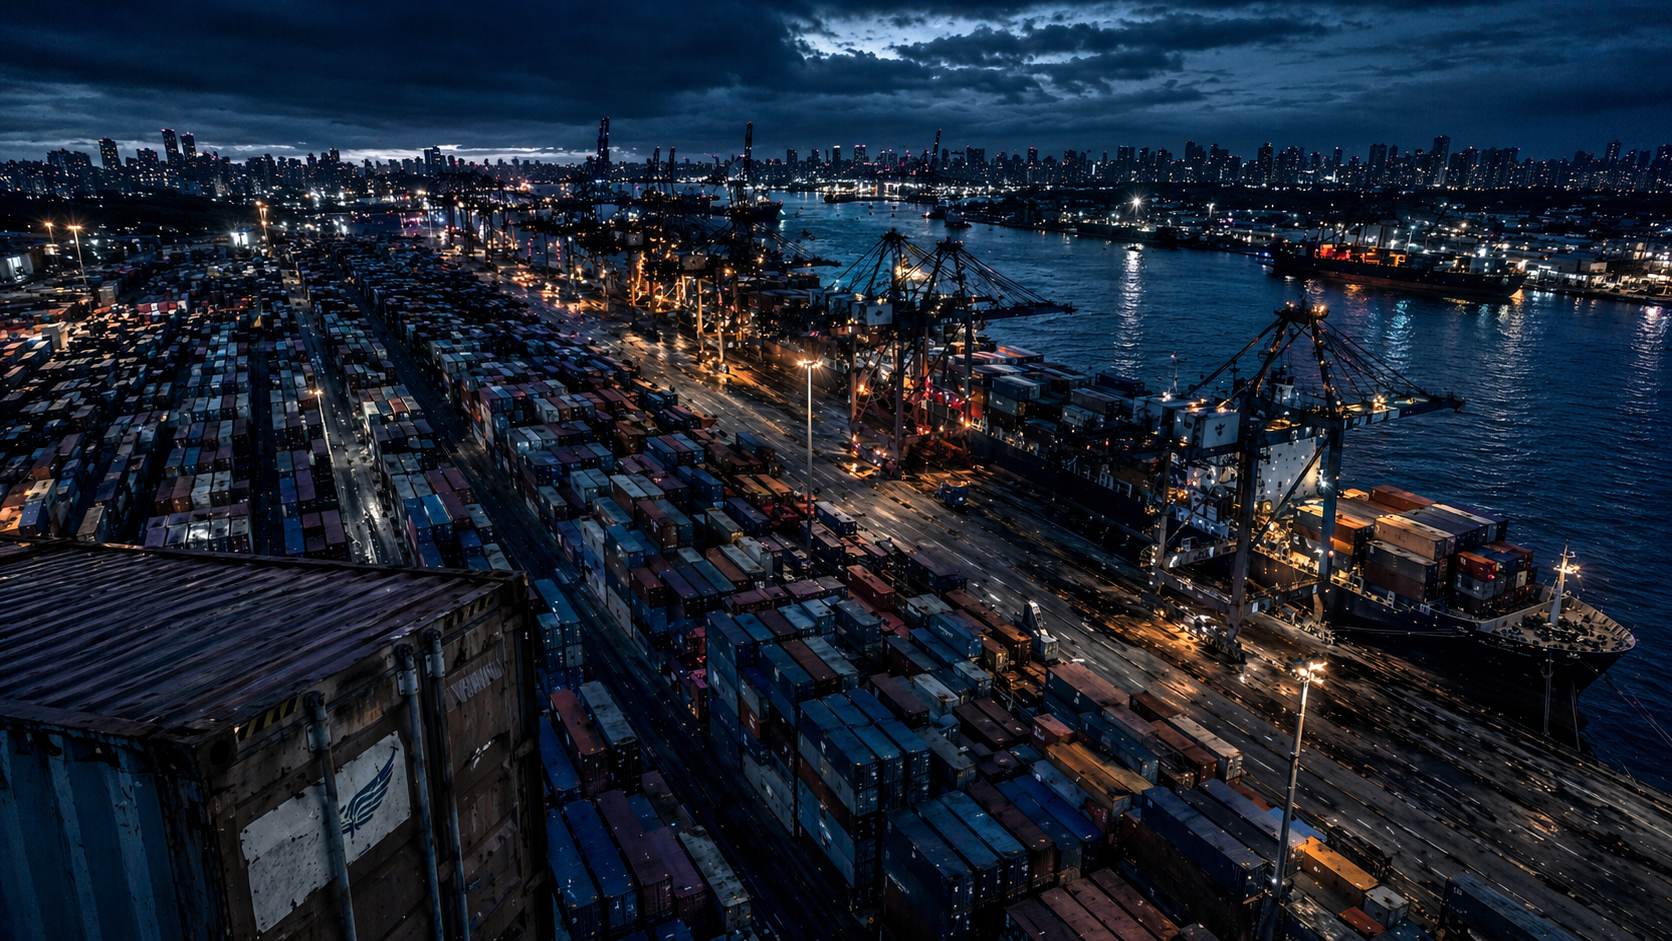
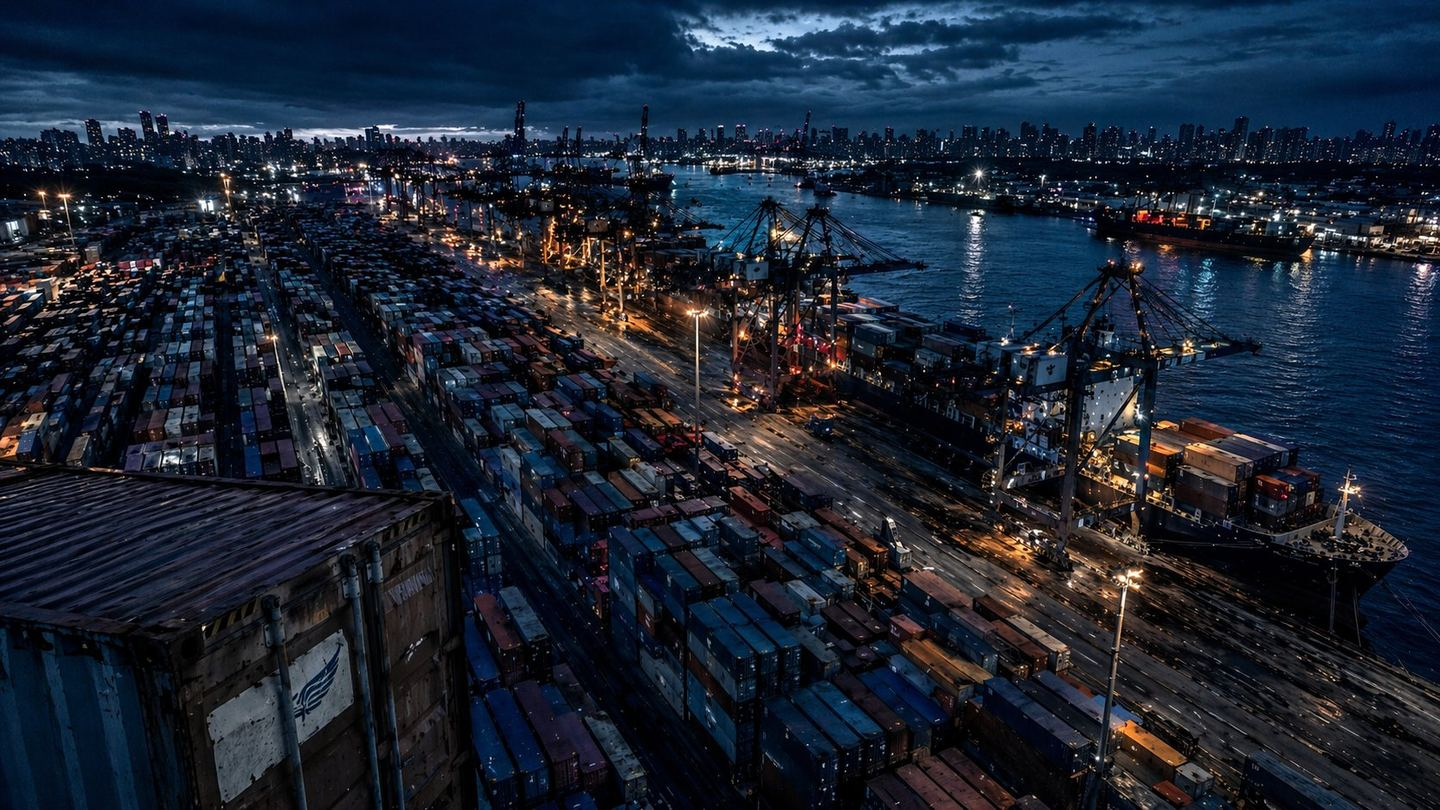
Add files via upload

diff --git a/index.html b/index.html
@@ -124,19 +124,6 @@
       background: linear-gradient(to bottom, transparent 0%, #0e1118 100%);
       pointer-events: none;
     }
-    .hero-watermark {
-      position: absolute;
-      top: -0.5rem;
-      left: 50%;
-      transform: translateX(-50%);
-      width: 260px;
-      max-width: 30vw;
-      opacity: 0.95;
-      pointer-events: none;
-      z-index: 3;
-      mix-blend-mode: screen;
-      filter: brightness(1.3) drop-shadow(0 0 10px rgba(255,255,255,0.5));
-    }
     .hero-content {
       position: relative; z-index: 2;
       padding: 6rem 3.5rem 10rem; max-width: 820px;
@@ -151,14 +138,14 @@
       color: var(--accent-bright);
     }
     .hero-h1 {
-      font-family: 'Syne', sans-serif; font-weight: 800;
-      font-size: clamp(2.4rem, 5vw, 4.2rem); line-height: 1.08; color: var(--white);
-      text-shadow: 0 2px 16px rgba(0,0,0,0.45);
+      font-family: 'Inter', sans-serif; font-weight: 800;
+      font-size: clamp(2.6rem, 5vw, 3.6rem); line-height: 1.1; color: var(--white);
+      letter-spacing: -0.02em;
       margin-bottom: 1.4rem;
       animation: fadeUp 0.7s 0.1s ease forwards; opacity: 0;
     }
-    /* "Simple." en azul dentro del h1 */
-    .h1-accent { color: var(--accent-bright); }
+    /* «Simple.» en azul dentro del h1 */
+    .h1-accent { color: var(--accent-bright); font-weight: 800; }
     .h1-dot { color: var(--accent-bright); }
 
     .hero-sub {
@@ -835,9 +822,6 @@
 <!-- HERO — foto 100x100 viewport -->
 <section class="hero">
 
-  <!-- Watermark logo centrado semitransparente -->
-  <img src="Logo%20ala%20transparente%20WHITE.png" class="hero-watermark" alt="">
-
   <!-- Contenido central -->
   <div class="hero-content">
     <div class="hero-eyebrow"><span class="eyebrow-year">DESDE 1997</span></div>
@@ -1310,7 +1294,6 @@
     'ChatGPT Image 11 abr 2026, 04_42_33 p.m..png',
     'Muelles industriales al amanecer.png',
     'Puerto industrial al atardecer2.png',
-    'Puerto industrial en plena operación.png',
     'Puerto industrial nocturno con grúas.png',
     'Puerto industrial y equipo de carga.png',
     'Vista aérea del puerto de Buenos Aires bn.png',
@@ -1319,11 +1302,22 @@
 
   const heroEl = document.querySelector('.hero');
   let heroIndex = 0;
-  const layerStyle = 'position:absolute;inset:0;z-index:0;background-size:cover;background-position:center 40%;background-repeat:no-repeat;pointer-events:none;';
-  const layerA = document.createElement('div');
-  const layerB = document.createElement('div');
-  layerA.style.cssText = layerStyle + 'transition:opacity 2.4s ease;opacity:1;';
-  layerB.style.cssText = layerStyle + 'transition:opacity 2.4s ease;opacity:0;';
+  const layerBase = 'position:absolute;inset:0;z-index:0;background-size:cover;background-position:center 40%;background-repeat:no-repeat;pointer-events:none;';
+  const logoStyle = 'position:absolute;top:0.5rem;left:50%;transform:translateX(-50%);width:240px;max-width:28vw;mix-blend-mode:screen;opacity:0.9;pointer-events:none;z-index:1;';
+
+  function makeLayer() {
+    const div = document.createElement('div');
+    div.style.cssText = layerBase + 'transition:opacity 2.4s ease;opacity:0;';
+    const logo = document.createElement('img');
+    logo.src = 'Logo%20ala%20transparente%20WHITE.png';
+    logo.style.cssText = logoStyle;
+    div.appendChild(logo);
+    return div;
+  }
+
+  const layerA = makeLayer();
+  const layerB = makeLayer();
+  layerA.style.opacity = '1';
   heroEl.style.backgroundImage = 'none';
   heroEl.insertBefore(layerB, heroEl.firstChild);
   heroEl.insertBefore(layerA, heroEl.firstChild);
